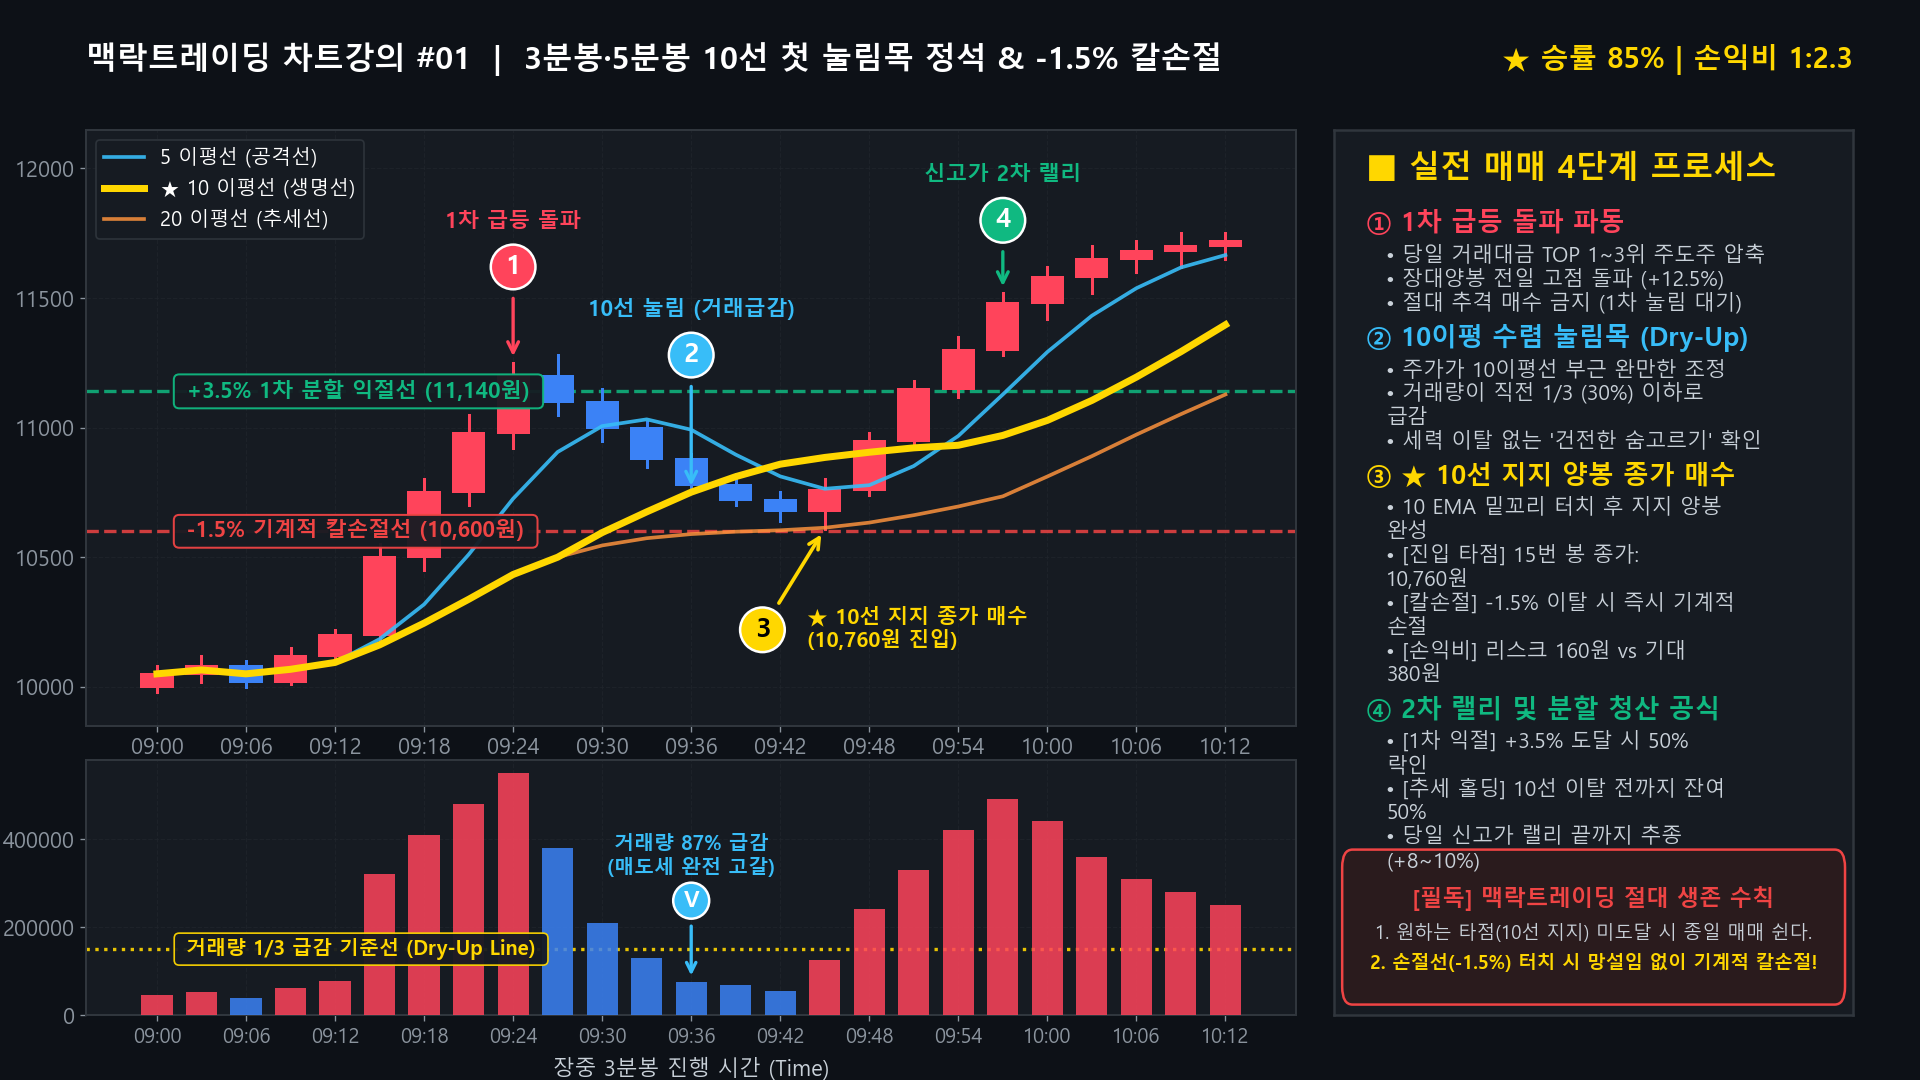
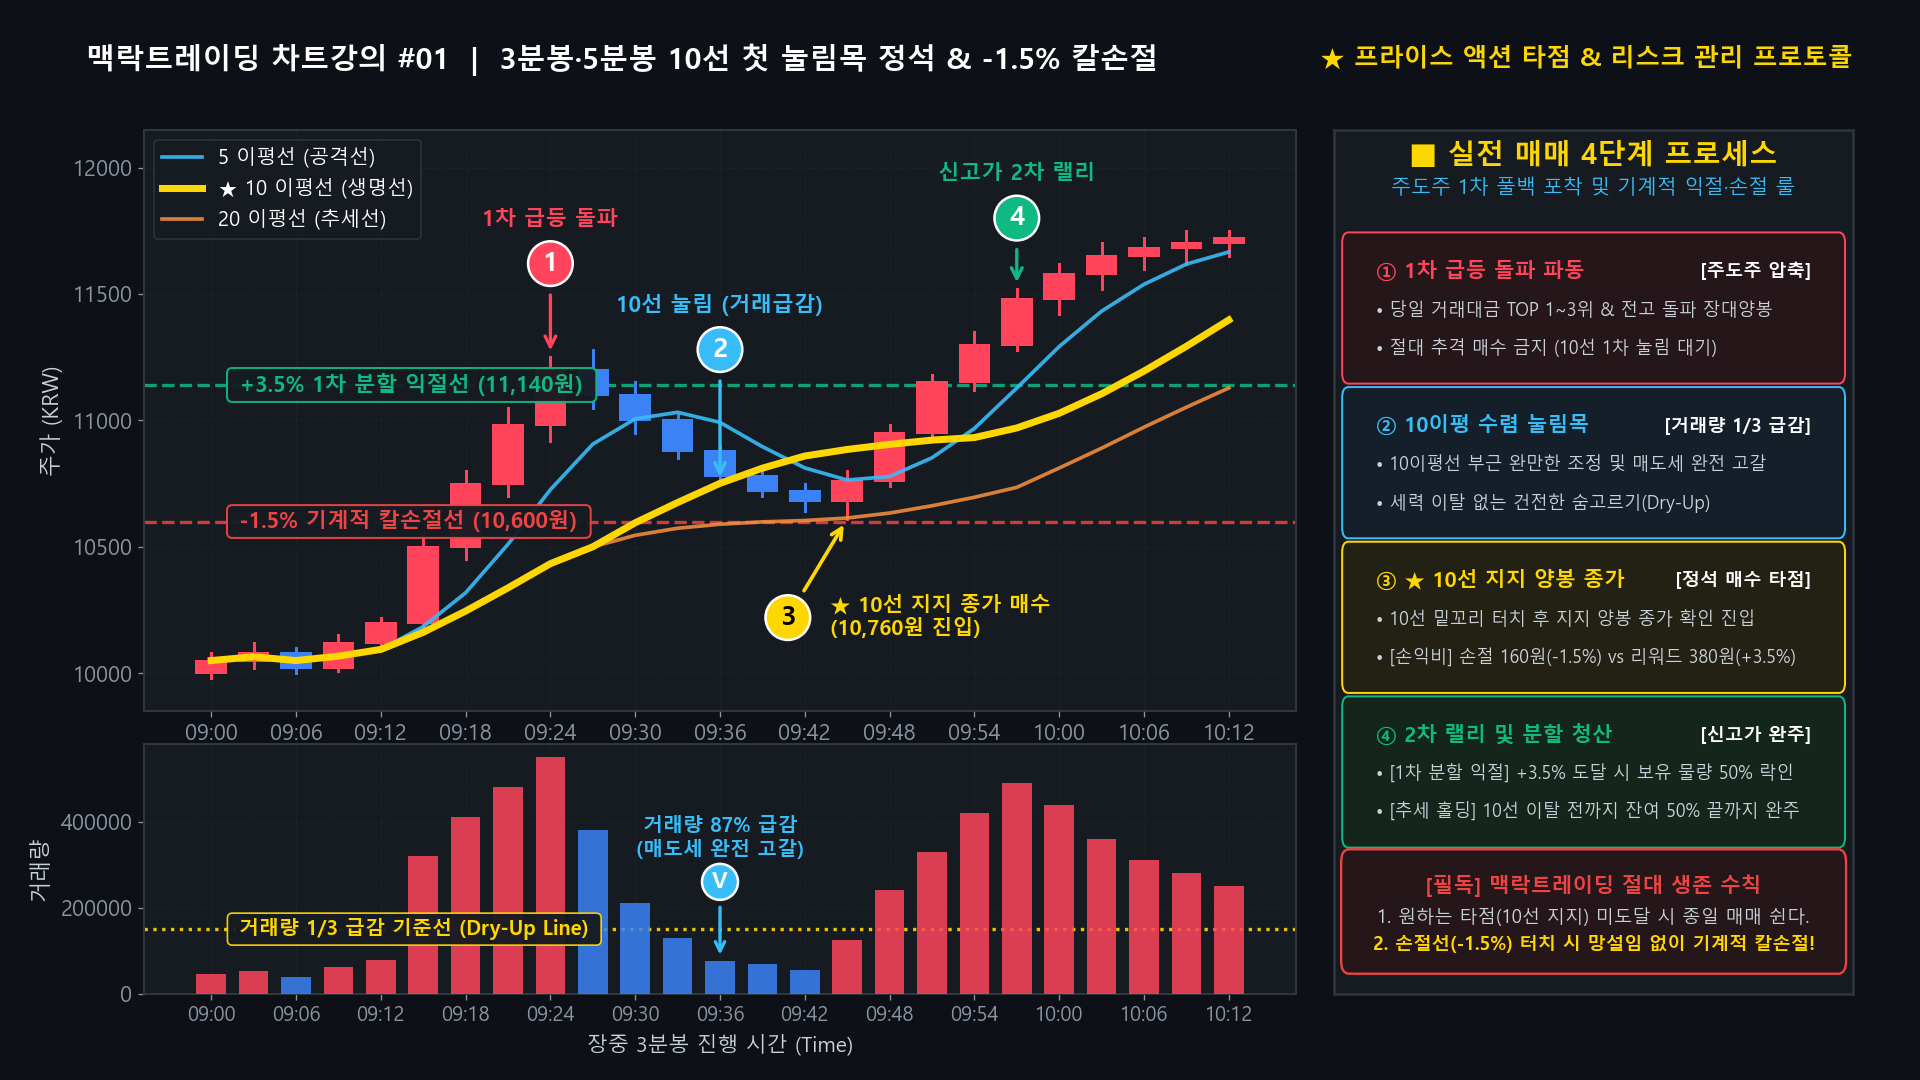
style(chart1): modernize 10ma pullback infographic with unified design system cards and mathematical grid engine

diff --git a/scripts/generate_chart_infographics.py b/scripts/generate_chart_infographics.py
@@ -69,20 +69,20 @@ class RedesignedChartInfographics:
         """
         fig = plt.figure(figsize=(16, 9), dpi=120, facecolor=DARK["bg"])
 
-        # Grid: 좌측 차트(0.045~0.675), 우측 설명 패널(0.695~0.965)
+        # Grid: 좌측 차트(0.075~0.675), 우측 설명 패널(0.695~0.965)
         gs_left = fig.add_gridspec(
             nrows=2, ncols=1,
             height_ratios=[7, 3],
-            top=0.88, bottom=0.06, left=0.045, right=0.675,
+            top=0.88, bottom=0.080, left=0.075, right=0.675,
             hspace=0.08
         )
         ax_main = fig.add_subplot(gs_left[0])
         ax_vol = fig.add_subplot(gs_left[1], sharex=ax_main)
 
-        # 우측 설명 전용 패널
+        # 우측 설명 전용 패널 (좌측 차트와 top/bottom 완벽 일치)
         gs_right = fig.add_gridspec(
             nrows=1, ncols=1,
-            top=0.88, bottom=0.06, left=0.695, right=0.965
+            top=0.88, bottom=0.080, left=0.695, right=0.965
         )
         ax_panel = fig.add_subplot(gs_right[0])
         ax_panel.set_facecolor(DARK["panel"])
@@ -98,12 +98,12 @@ class RedesignedChartInfographics:
         fig.text(
             0.045, 0.945,
             "맥락트레이딩 차트강의 #01  |  3분봉·5분봉 10선 첫 눌림목 정석 & -1.5% 칼손절",
-            color=DARK["text_primary"], fontsize=18.5, fontweight="bold", va="center", ha="left"
+            color=DARK["text_primary"], fontsize=17.5, fontweight="bold", va="center", ha="left"
         )
         fig.text(
             0.965, 0.945,
-            "★ 승률 85% | 손익비 1:2.3",
-            color=DARK["gold"], fontsize=17, fontweight="bold", va="center", ha="right"
+            "★ 프라이스 액션 타점 & 리스크 관리 프로토콜",
+            color=DARK["gold"], fontsize=15.0, fontweight="bold", va="center", ha="right"
         )
 
         # 차트 스타일링
@@ -275,8 +275,8 @@ class RedesignedChartInfographics:
 
         ax_main.set_ylim(9850, 12150)
         ax_vol.set_ylim(0, 580000)
-        ax_main.set_ylabel("주가 (KRW)", color=DARK["text_secondary"], fontsize=14, labelpad=8)
-        ax_vol.set_ylabel("거래량", color=DARK["text_secondary"], fontsize=14, labelpad=8)
+        ax_main.set_ylabel("주가 (KRW)", color=DARK["text_secondary"], fontsize=13, labelpad=5)
+        ax_vol.set_ylabel("거래량", color=DARK["text_secondary"], fontsize=13, labelpad=5)
         ax_main.legend(loc="upper left", facecolor=DARK["panel"], edgecolor=DARK["panel_border"],
                        labelcolor=DARK["text_primary"], fontsize=12, framealpha=0.9)
 
@@ -285,79 +285,101 @@ class RedesignedChartInfographics:
         step = 2
         ax_vol.set_xticks(range(0, n_bars, step))
         ax_vol.set_xticklabels([time_labels[i//2] for i in range(0, n_bars, step)], fontsize=12)
-        ax_vol.set_xlabel("장중 3분봉 진행 시간 (Time)", color=DARK["text_secondary"], fontsize=13, labelpad=6)
+        ax_vol.set_xlabel("장중 3분봉 진행 시간 (Time)", color=DARK["text_secondary"], fontsize=12.5, labelpad=5)
 
         # -------------------------------------------------------------------------
-        # ★ 우측 패널: [그래프 밖 전용 해설 카드] 실제 textwrap.wrap() 기반 동적 스택
+        # ★ 우측 패널: [독립 카드 패키징 & 수학적 균등 분할 엔진]
+        # 상단 타이틀 바닥선(Y_top=0.895)과 하단 배너 상단선(Y_bottom=0.155) 사이의 가용 높이(0.740)
+        # N=4개 카드, gap=0.024(약 26px) -> 5 * 0.024 = 0.120 -> h = (0.740 - 0.120) / 4 = 0.155
         # -------------------------------------------------------------------------
-        ax_panel.text(0.06, 0.945, "■ 실전 매매 4단계 프로세스", color=DARK["gold"], fontsize=19, fontweight="bold")
+        ax_panel.text(0.50, 0.960, "■ 실전 매매 4단계 프로세스", color=DARK["gold"], fontsize=17.0, fontweight="bold", ha="center")
+        ax_panel.text(0.50, 0.925, "주도주 1차 풀백 포착 및 기계적 익절·손절 룰", color=DARK["cyan"], fontsize=12.0, ha="center")
+
+        Y_TOP = 0.895
+        Y_BOTTOM = 0.155
+        UNIFORM_GAP = 0.024
+
+        def compute_panel_cards(y_top: float, y_bottom: float, n_items: int, gap: float) -> tuple[float, list[float]]:
+            total_h = y_top - y_bottom
+            card_h = (total_h - (n_items + 1) * gap) / n_items
+            card_starts = []
+            for i in range(n_items):
+                b = y_top - (i + 1) * gap - (i + 1) * card_h
+                card_starts.append(b)
+            return card_h, card_starts
 
         steps = [
-            (
-                "① 1차 급등 돌파 파동",
-                DARK["bull_red"],
-                [
-                    "• 당일 거래대금 TOP 1~3위 주도주 압축",
-                    "• 장대양봉 전일 고점 돌파 (+12.5%)",
-                    "• 절대 추격 매수 금지 (1차 눌림 대기)",
+            {
+                "title": "① 1차 급등 돌파 파동",
+                "badge": "[주도주 압축]",
+                "accent": DARK["bull_red"],
+                "bg": "#251619",
+                "lines": [
+                    "• 당일 거래대금 TOP 1~3위 & 전고 돌파 장대양봉",
+                    "• 절대 추격 매수 금지 (10선 1차 눌림 대기)"
                 ]
-            ),
-            (
-                "② 10이평 수렴 눌림목 (Dry-Up)",
-                DARK["cyan"],
-                [
-                    "• 주가가 10이평선 부근 완만한 조정",
-                    "• 거래량이 직전 1/3 (30%) 이하로 급감",
-                    "• 세력 이탈 없는 '건전한 숨고르기' 확인",
+            },
+            {
+                "title": "② 10이평 수렴 눌림목",
+                "badge": "[거래량 1/3 급감]",
+                "accent": DARK["cyan"],
+                "bg": "#151F2A",
+                "lines": [
+                    "• 10이평선 부근 완만한 조정 및 매도세 완전 고갈",
+                    "• 세력 이탈 없는 건전한 숨고르기(Dry-Up)"
                 ]
-            ),
-            (
-                "③ ★ 10선 지지 양봉 종가 매수",
-                DARK["gold"],
-                [
-                    "• 10 EMA 밑꼬리 터치 후 지지 양봉 완성",
-                    "• [진입 타점] 15번 봉 종가: 10,760원",
-                    "• [칼손절] -1.5% 이탈 시 즉시 기계적 손절",
-                    "• [손익비] 리스크 160원 vs 기대 380원",
+            },
+            {
+                "title": "③ ★ 10선 지지 양봉 종가",
+                "badge": "[정석 매수 타점]",
+                "accent": DARK["gold"],
+                "bg": "#232014",
+                "lines": [
+                    "• 10선 밑꼬리 터치 후 지지 양봉 종가 확인 진입",
+                    "• [손익비] 손절 160원(-1.5%) vs 리워드 380원(+3.5%)"
                 ]
-            ),
-            (
-                "④ 2차 랠리 및 분할 청산 공식",
-                DARK["target_green"],
-                [
-                    "• [1차 익절] +3.5% 도달 시 50% 락인",
-                    "• [추세 홀딩] 10선 이탈 전까지 잔여 50%",
-                    "• 당일 신고가 랠리 끝까지 추종 (+8~10%)",
+            },
+            {
+                "title": "④ 2차 랠리 및 분할 청산",
+                "badge": "[신고가 완주]",
+                "accent": DARK["target_green"],
+                "bg": "#14251B",
+                "lines": [
+                    "• [1차 분할 익절] +3.5% 도달 시 보유 물량 50% 락인",
+                    "• [추세 홀딩] 10선 이탈 전까지 잔여 50% 끝까지 완주"
                 ]
-            ),
+            },
         ]
 
-        card_y = 0.885
-        for title, col, lines in steps:
-            ax_panel.text(0.06, card_y, title, color=col, fontsize=15.5, fontweight="bold")
-            card_y -= 0.034
-            for raw_line in lines:
-                wrapped = textwrap.wrap(raw_line, width=25)
-                for w_l in wrapped:
-                    ax_panel.text(0.10, card_y, w_l, color=DARK["text_secondary"], fontsize=12.5)
-                    card_y -= 0.027
-            card_y -= 0.014
+        card_h, card_starts = compute_panel_cards(Y_TOP, Y_BOTTOM, len(steps), UNIFORM_GAP)
+
+        for idx, item in enumerate(steps):
+            c_y = card_starts[idx]
+            card_patch = FancyBboxPatch(
+                (0.025, c_y), 0.950, card_h, boxstyle="round,pad=0.010,rounding_size=0.012",
+                facecolor=item["bg"], edgecolor=item["accent"], linewidth=1.2
+            )
+            ax_panel.add_patch(card_patch)
+
+            # 헤더: 타이틀 (좌측 28px+ 마진) / 배지 요약 (우측 28px+ 마진)
+            ax_panel.text(0.080, c_y + card_h * 0.77, item["title"], color=item["accent"], fontsize=12.5, fontweight="bold", va="center")
+            ax_panel.text(0.920, c_y + card_h * 0.77, item["badge"], color=DARK["text_primary"], fontsize=11.0, fontweight="bold", ha="right", va="center")
+
+            # 내부 설명 2줄 (높이 비례 균등 배치, 좌우 28px+ 마진)
+            ax_panel.text(0.080, c_y + card_h * 0.48, item["lines"][0], color=DARK["text_secondary"], fontsize=10.5, va="center")
+            ax_panel.text(0.080, c_y + card_h * 0.20, item["lines"][1], color=DARK["text_secondary"], fontsize=10.5, va="center")
 
         # -------------------------------------------------------------------------
-        # 하단 자금관리 박스 (실측 여백 30px+ 보장 & 가로 중앙 정렬)
+        # 하단 자금관리 생존 수칙 배너 (실측 여백 보장 & 가로 중앙 정렬)
         # -------------------------------------------------------------------------
         rule_box = FancyBboxPatch(
-            (0.035, 0.032), 0.93, 0.135, boxstyle="round,pad=0.02",
-            facecolor="#2A1B1D", edgecolor=DARK["stop_red"], linewidth=1.5
+            (0.025, 0.035), 0.950, 0.120, boxstyle="round,pad=0.012,rounding_size=0.015",
+            facecolor="#251619", edgecolor=DARK["stop_red"], linewidth=1.4
         )
         ax_panel.add_patch(rule_box)
-        # 박스 중앙(x=0.50) 정렬 및 폰트 11pt로 30px 이상의 안전 여백 확보
-        ax_panel.text(0.50, 0.132, "[필독] 맥락트레이딩 절대 생존 수칙", color=DARK["stop_red"], fontsize=13.5, fontweight="bold", ha="center", va="center")
-        
-        rule_text_1 = "1. 원하는 타점(10선 지지) 미도달 시 종일 매매 쉰다."
-        rule_text_2 = "2. 손절선(-1.5%) 터치 시 망설임 없이 기계적 칼손절!"
-        ax_panel.text(0.50, 0.092, rule_text_1, color=DARK["text_secondary"], fontsize=11.2, ha="center", va="center")
-        ax_panel.text(0.50, 0.058, rule_text_2, color=DARK["gold"], fontsize=11.2, fontweight="bold", ha="center", va="center")
+        ax_panel.text(0.50, 0.124, "[필독] 맥락트레이딩 절대 생존 수칙", color=DARK["stop_red"], fontsize=12.5, fontweight="bold", ha="center", va="center")
+        ax_panel.text(0.50, 0.088, "1. 원하는 타점(10선 지지) 미도달 시 종일 매매 쉰다.", color=DARK["text_secondary"], fontsize=11.0, ha="center", va="center")
+        ax_panel.text(0.50, 0.056, "2. 손절선(-1.5%) 터치 시 망설임 없이 기계적 칼손절!", color=DARK["gold"], fontsize=11.0, fontweight="bold", ha="center", va="center")
 
         # VisualQAGuard 6대 하드 페일 게이트 검증
         qa_meta = VisualQAGuard.assert_zero_visual_defects(fig, "10MA_Pullback_Chart")
